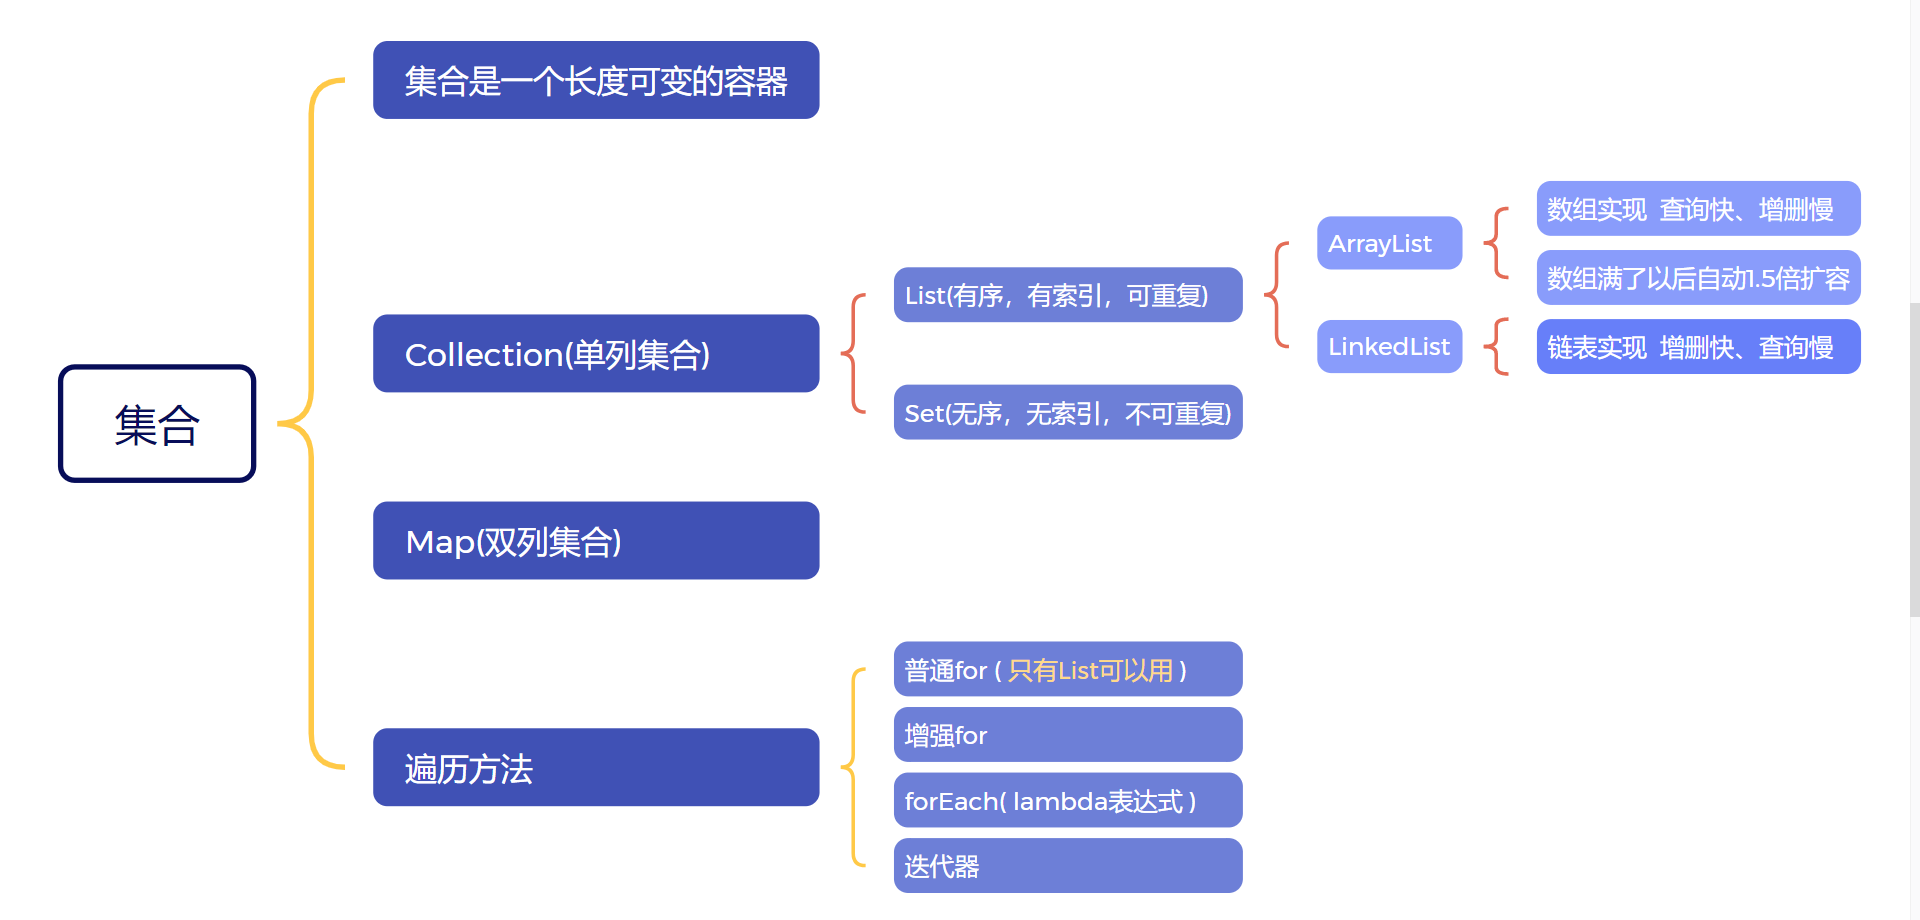
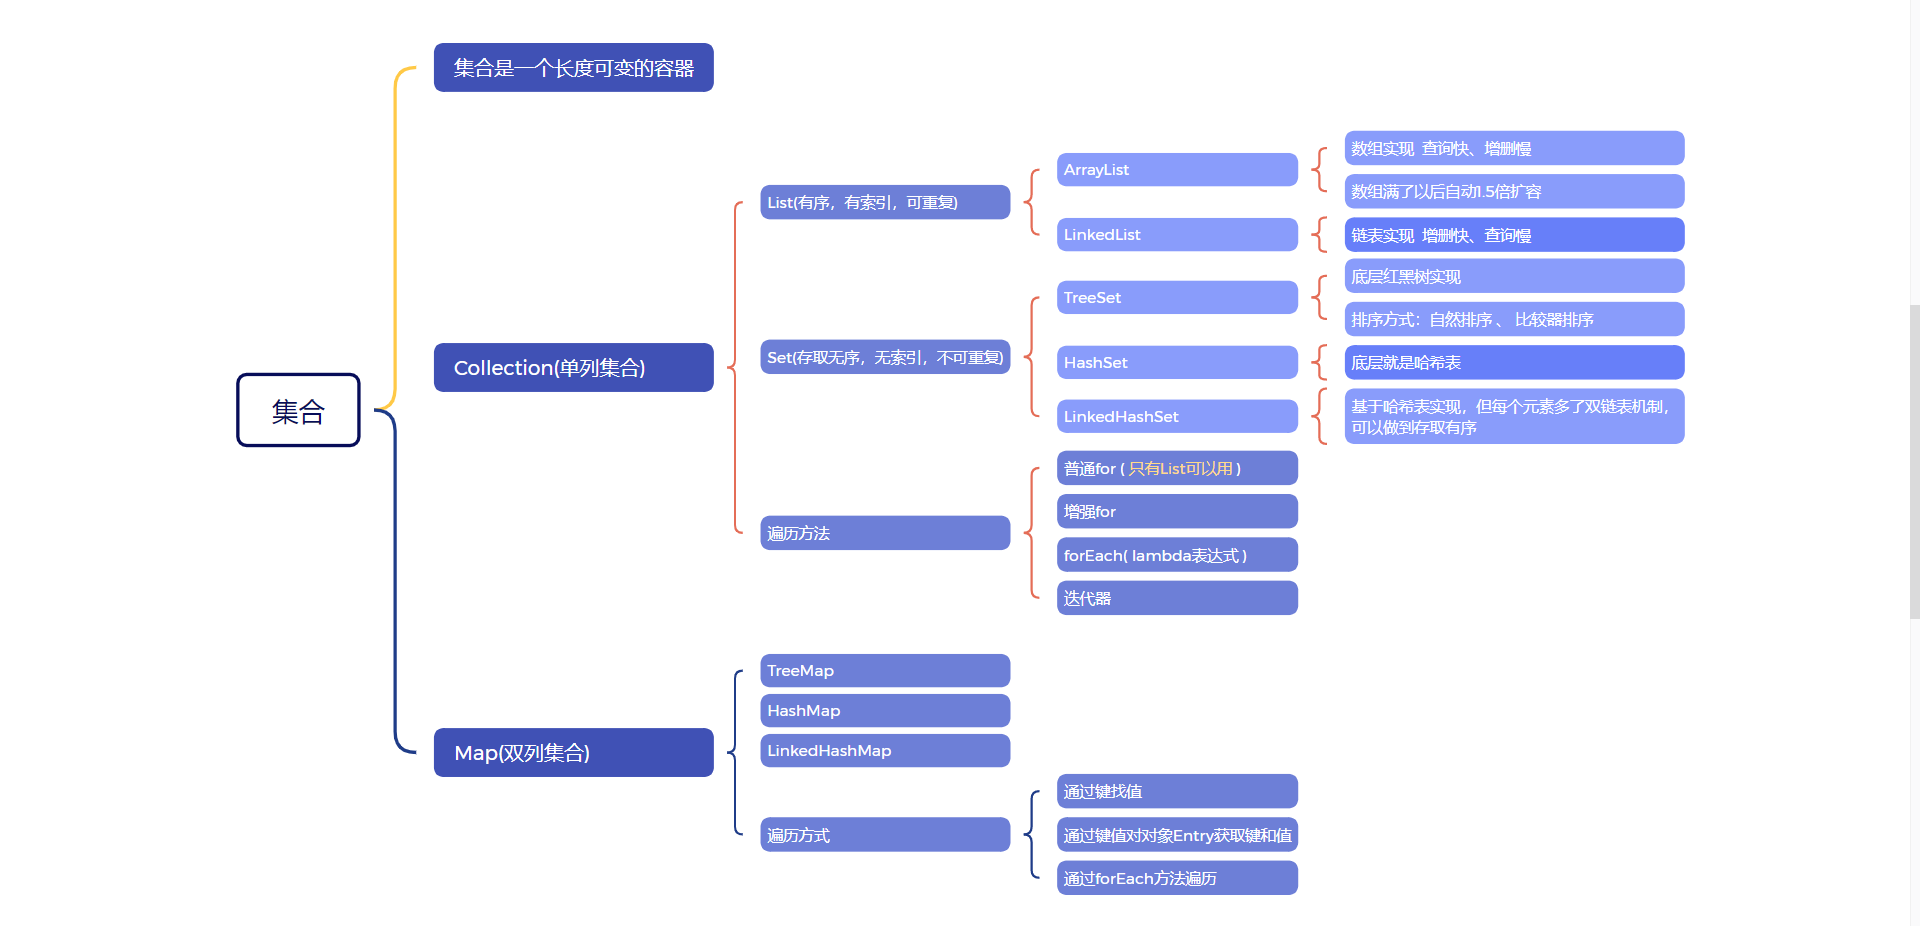
笔记总结
笔记：Stream、异常

Changed region(s): [[0.0312, 0.1217, 0.9688, 0.9739], [0.1562, 0.0304, 0.4375, 0.1522], [0.0312, 0.5174, 0.125, 0.5478]]

diff --git a/02-Java-Knowledge/02-JavaSE-Intermediate/01-Collection/Collection.md b/02-Java-Knowledge/02-JavaSE-Intermediate/01-Collection/Collection.md
@@ -1,20 +1,63 @@
-## ArrayList
+# Collection
+
+### ArrayList
 
 **基础**：底层是数组，查询快、增删慢
 
 - 1.5倍扩容：让扩容后的新空间更有机会利用到之前释放的内存碎片
 - 右移运算符：右移1位效率极高，直接在二进制层面运算
 
-
-
-## LinkedList
+### LinkedList
 
 **基础**：底层是链表，增删快、查询慢
 
 - 现代CPU缓存下ArrayList增删可能比LinkedList还快：ArrayList内存连续，可以利用CPU的预取指令，而LinkedList的节点到处乱跳，会导致频繁的Cache Miss
+
+  
+
+### HashSet
+
+**底层实现**：哈希表，结构为数组 + 链表 + 红黑树( JDK8以后 )
+
+当链表长度超过8，并且数组长度大于等于64时，自动将链表转化为红黑树
+
+### TreeSet
+
+**底层**：红黑树，能自动排序是因为每存入一个元素，就会进行一次”左旋“或”右旋“来保持平衡
 
 
 
 ## 迭代器
 
 遍历List时不能用list.remove()，是因为修改集合的时候modCount次数会+1，迭代器内部存了expectedModCount，如果两者不相等就会抛出ConcurrentModificException异常（并发修改异常）
+
+
+
+# Map
+
+存的是**键值对**( Key - Value )
+
+### HashMap
+
+**底层**：是哈希表，结构为结构为数组 + 链表 + 红黑树(  JDK8以后)
+
+- 根据Key的hashCode计算索引，O(1)的时间复杂度。
+- 确保键唯一靠的是hashCode()和equals()
+- 默认加载因子为0.75，是基于泊松分布计算出的最优解
+- 在计算索引时，Java使用了取模运算的位运算，所以HashMap的长度必须是2的n次幂。
+
+### TreeMap
+
+**底层**：红黑树
+
+- 不看Hash，只根据存进去的Key大小顺序进行排序
+
+### LinkedHashMap
+
+**底层**：在HashMap的基础上加了双向链表，每个元素都有指向上个元素与下个元素的指针（头的pre和尾的next为null），可以记住存入的顺序
+
+### Map的三种遍历
+
+- **KeySet**：先拿Key，再根据Key去找Value
+- **EntrySet**：直接拿”键值对“对象
+- **forEach**

diff --git a/02-Java-Knowledge/02-JavaSE-Intermediate/02-Stream/Stream.md b/02-Java-Knowledge/02-JavaSE-Intermediate/02-Stream/Stream.md
@@ -1,0 +1,54 @@
+#### Stream是一套流水线加工协议
+
+- 加工三部
+
+  1.获取流：list.stream() 将数据刷入流水线 （获取流对象）
+
+  2.中间方法：filter，map，distinct....
+
+  						中间操作是**懒加载**的，没遇到终结方法前他们一个都不会执行
+
+  3.终结方法：forEach，collect，count
+
+  						终结方法一旦执行，流水线关闭，stream对象不可再用
+
+- Stream不会修改原始集合，就像复印件。这保证了在复杂项目里的数据安全
+- **不要**在简单循环中强行使用Stream，因为Lambda表达式和Stream的创建是有开销的。
+
+#### 方法引用
+
+对Lambda表达式的进一步简化。
+
+适用于**Lambda表达式只调用一个现有方法**的场景。
+
+示例: s -> System.sout.println(s)  可简化为方法引用 System.out::println
+
+
+
+#### 异常处理
+
+- 异常体系的结构
+
+  	Throwable：所有错误的祖宗
+
+  			Error：系统级崩溃，程序员无法处理（如内存溢出）
+
+  			Exception：我们要处理的异常
+
+  						运行时异常：RuntimeException及其子类，通常是逻辑Bug
+
+  						编译时异常：除RuntimeException 之外所有的异常，不处理编译不了
+
+  				自定义异常：JDK自带的异常无法见名知意的表示出需求中的异常时，可以自己定义，但要继承Exception(自定义编译时异常)或RuntimeException(自定义运行时异常)
+
+- 关键字
+
+  1.try...catch：拦截并处理，处理完继续运行
+
+  2.finall：必执行。无论是否异常，finally块内的代码都要执行。
+
+  3.throw：主动开火，在方法内部抛出一个异常
+
+  4.throws：甩锅。在方法签名上声明，谁调用谁处理。
+
+- **不要**用异常来实现业务逻辑。异常的堆栈追踪非常消耗CPU算力，异常是用来处理意外的，不是拿来实现业务的

diff --git a/02-Java-Knowledge/01-Object-Oriented-Basics/02-多态/多态理解.md b/02-Java-Knowledge/01-Object-Oriented-Basics/02-多态/多态理解.md
@@ -1,6 +1,6 @@
 *内存原理写在 继承理解.md 当中*
 
-		多态很简单，就是一个对象在他的继承链上可以变换多种形态（类型转换），往上最多转到Object类型，往下最多转成他的真实类型：
+		多态 是一个对象在他的继承链上可以变换多种形态（类型转换），往上最多转到Object类型，往下最多转成他的真实类型：
 
 ```Java
 public abstract class Animal {
